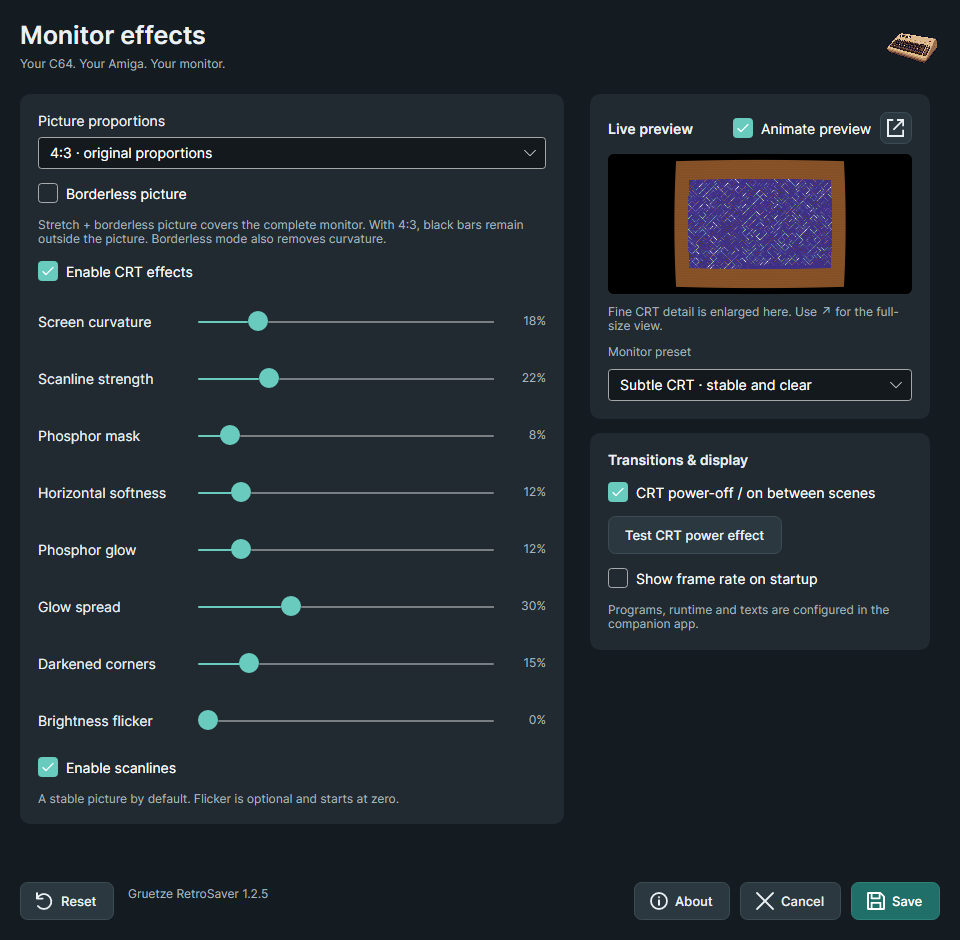
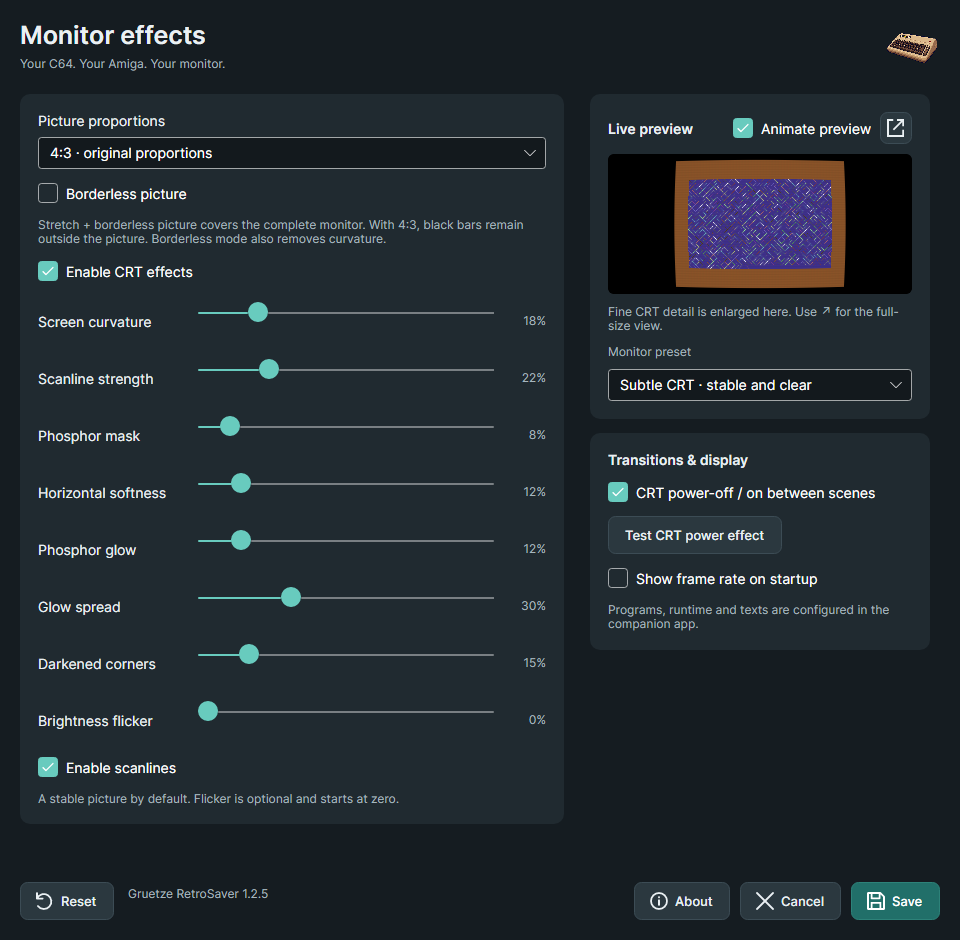
Slim dialog scrollbars and keep compact slider thumbs fully visible

diff --git a/tests/Smoke/Program.cs b/tests/Smoke/Program.cs
@@ -519,13 +519,32 @@ foreach (bool amiga in new[] { false, true })
     var bar = Avalonia.VisualTree.VisualExtensions.GetVisualDescendants(scroller)
         .OfType<Avalonia.Controls.Primitives.ScrollBar>().Single(c => c.Orientation == Avalonia.Layout.Orientation.Vertical &&
             Avalonia.VisualTree.VisualExtensions.GetVisualAncestors(c).OfType<ScrollViewer>().FirstOrDefault() == scroller);
-    Check(bar.IsVisible && bar.Bounds.Width > 0, "Small editor has a visible vertical scrollbar");
+    Check(bar.IsVisible && bar.Bounds.Width > 0 && bar.Bounds.Width <= 8.5, "Small editor has a slim visible scrollbar");
     var barLeft = bar.TranslatePoint(default, small)!.Value.X;
     foreach (var field in descendants.Where(c => c.IsEffectivelyVisible && c is TextBox or ComboBox or NumericUpDown or Slider))
     {
         var origin = field.TranslatePoint(default, small)!.Value;
         Check(origin.X + field.Bounds.Width <= barLeft - 5,
             "Scrollbar has a separate gutter beyond the editor field: " + field.Name);
+    }
+    foreach (var slider in descendants.OfType<Slider>())
+    {
+        double originalValue = slider.Value;
+        foreach (double value in new[] { slider.Minimum, (slider.Minimum + slider.Maximum) / 2, slider.Maximum })
+        {
+            slider.Value = value;
+            Dispatcher.UIThread.RunJobs();
+            foreach (var thumb in Avalonia.VisualTree.VisualExtensions.GetVisualDescendants(slider)
+                .OfType<Avalonia.Controls.Primitives.Thumb>())
+            {
+                var point = thumb.TranslatePoint(default, slider)!.Value;
+                Check(point.X >= -.5 && point.Y >= -.5 && point.X + thumb.Bounds.Width <= slider.Bounds.Width + .5 &&
+                    point.Y + thumb.Bounds.Height <= slider.Bounds.Height + .5,
+                    "Complete round thumb fits compact slider at every position: " + slider.Name);
+            }
+        }
+        slider.Value = originalValue;
+        Dispatcher.UIThread.RunJobs();
     }
     var closeButton = descendants.OfType<Button>().Single(c => c.Name == "CloseCompanion");
     var closeOrigin = closeButton.TranslatePoint(default, small)!.Value;

diff --git a/CHANGELOG.md b/CHANGELOG.md
@@ -2,6 +2,8 @@
 
 ## 1.2.5 — in development
 
+- Slim dialog scrollbars to 8px and slider rails to 2px; fix clipped circular thumbs in compact sliders.
+
 - Reduce companion and monitor dialog sizes, shrink live previews and fit scaled display working areas; keep footer actions visible with scrollable editors.
 - Add a Close button to the companion.
 - Add All Kickstarts, rotating the original 1.3/2.0/3.1 prompts between animation runs, with synchronized CRT transitions and loading reflection.
